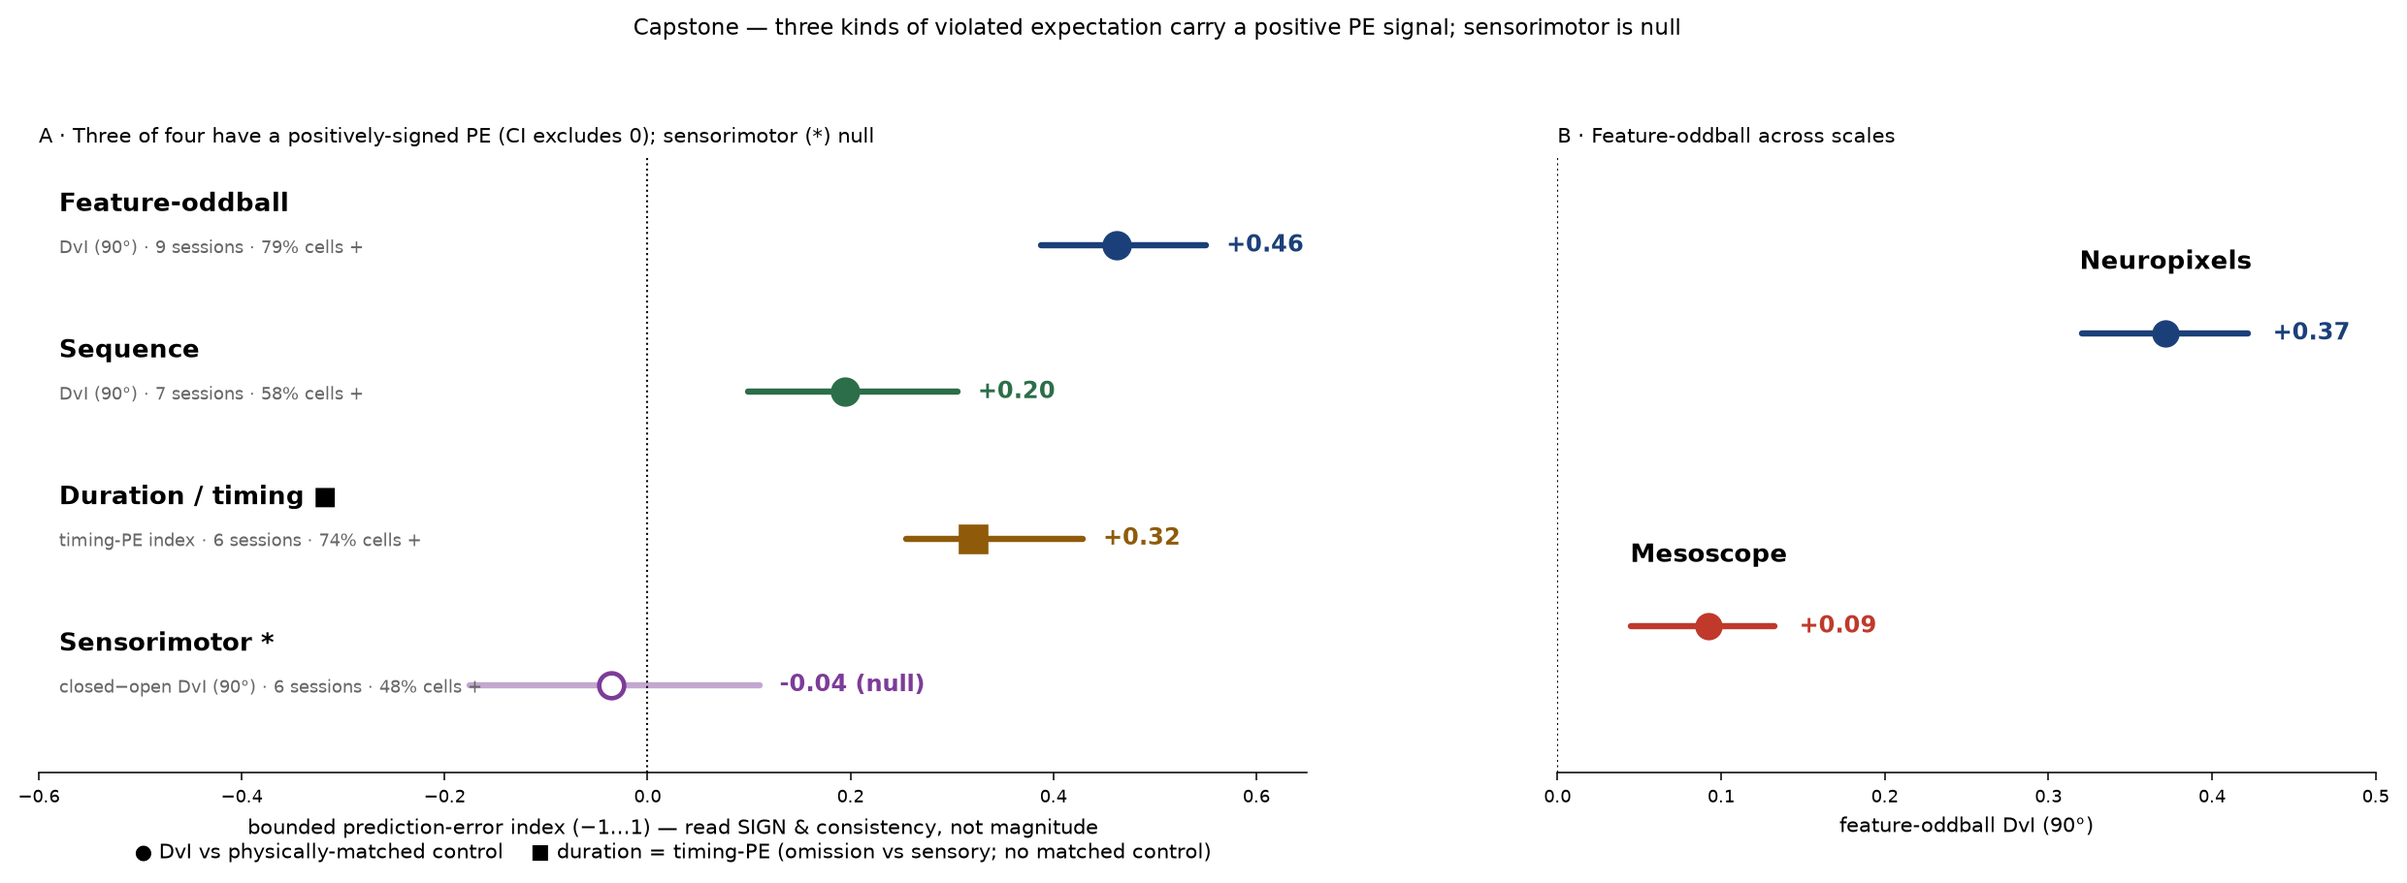
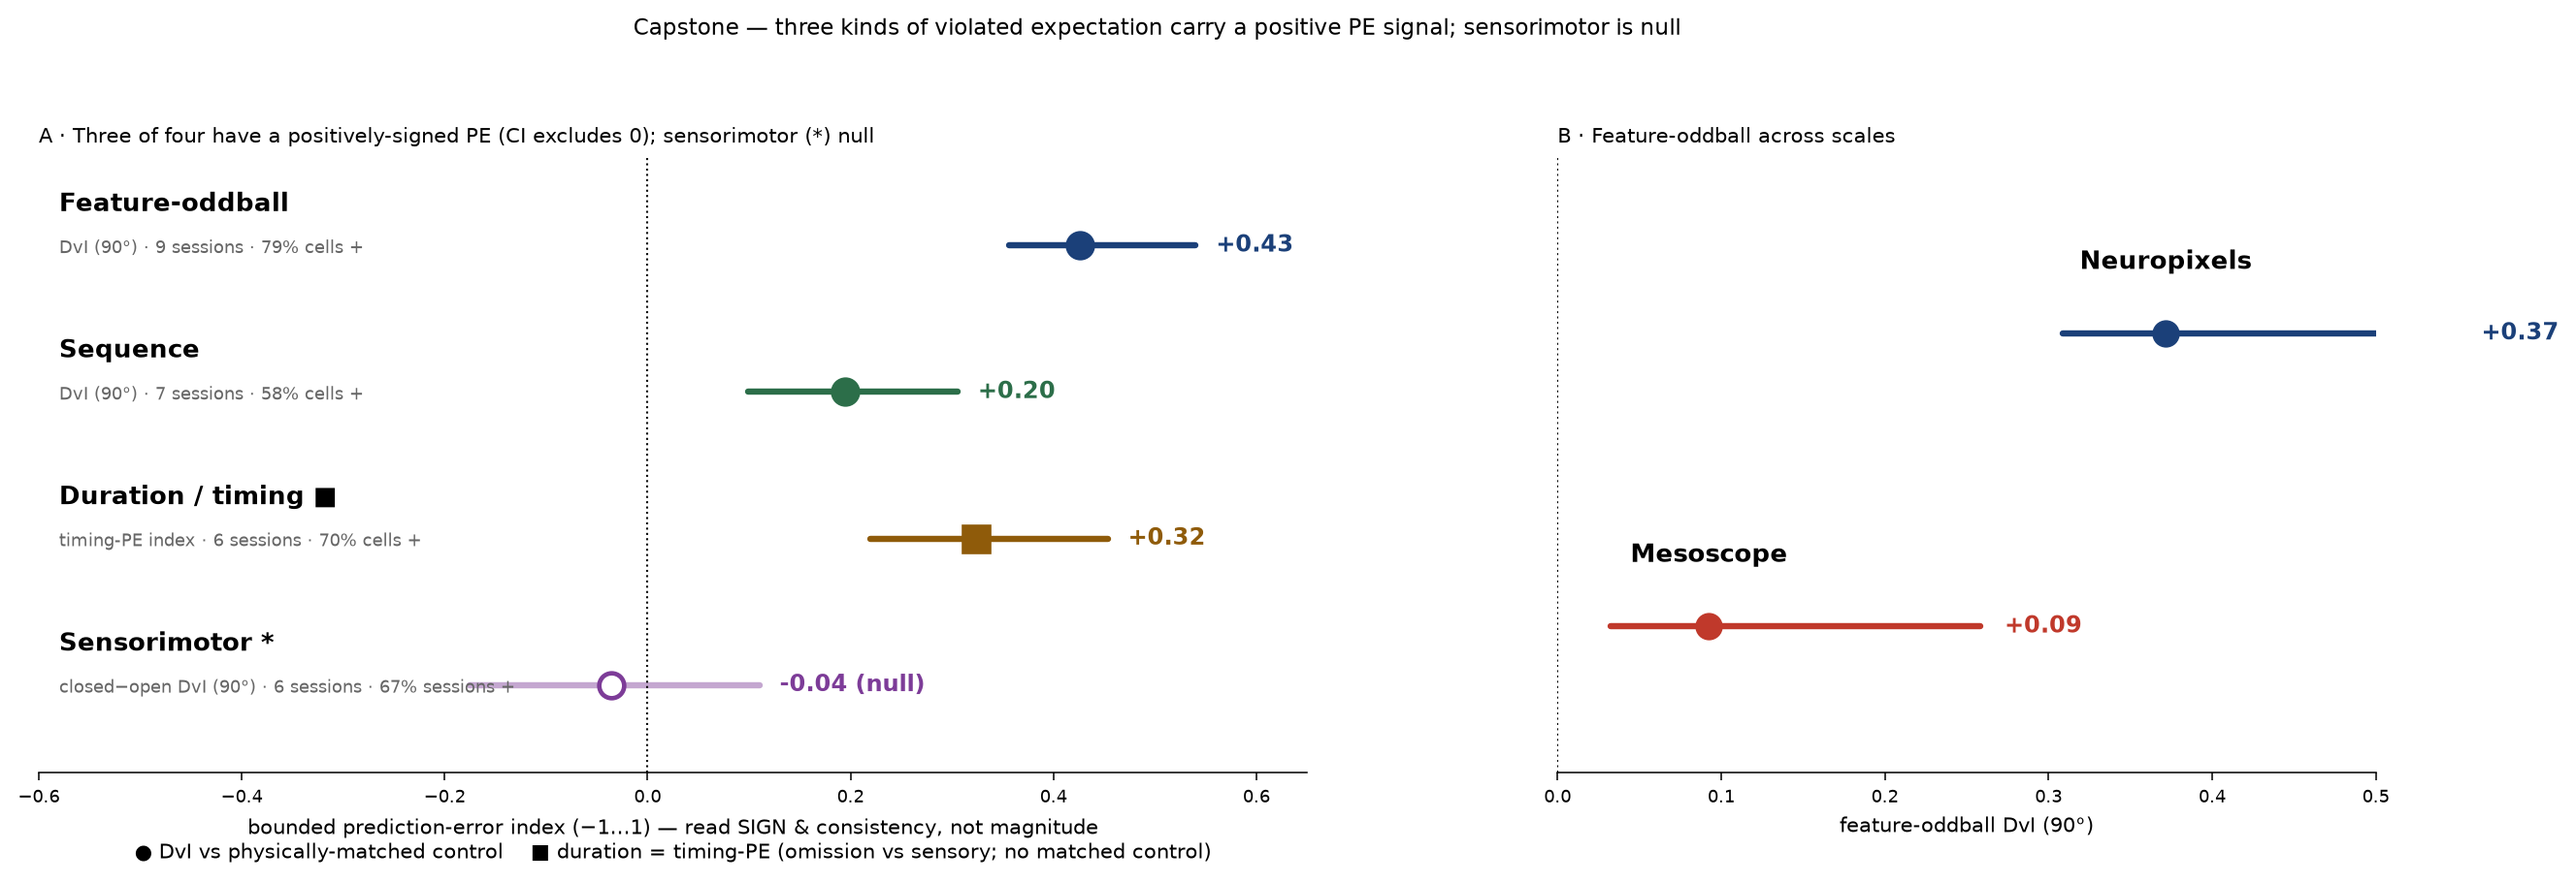
Make summary builder canonical: apply named per-result population so rebuild == committed exactly
Audit (correct, high severity): build_summary_tables.py read every non-null index without
reproducing the notebook-level inclusion gates, so a rebuild produced materially different n and CIs
than the committed CSVs (feature-oddball especially: builder gave 0.415/n=1881 vs committed
0.462/n=1534, because it never applied the responsiveness gate). The docs also framed the committed
CSVs as an "authoritative snapshot" that intentionally differed from the script — a reproducibility
anti-pattern.

Fix implements every recommendation:
- ONE named analysis population per result, applied from a flag in the per-unit table:
    Feature-oddball = QC & VIS & responsive (resp_p<0.05)   [the 'responsive' flag WAS in the
                       parquet; the builder simply wasn't using it]
    Sequence        = QC & VIS (all)
    Duration        = QC & VIS (all)
    Sensorimotor    = QC & VIS & standard-responsive (>0.1 Hz), read from its gated notebook summary
  The population string is now a column in capstone_error_types.csv and a map in the provenance JSON.
- The builder is the SOLE generator of the CSVs (canonical write by default). Removed the
  preserve/--regenerate split and the "authoritative snapshot" concept entirely.
- --check now asserts committed == fresh rebuild for every median, CI, AND n at tol 1e-6 (was a
  0.10 median-only tolerance). It passes exactly.

Net numbers (all now reproduce exactly from committed per-unit tables):
[…]

diff --git a/scripts/build_summary_tables.py b/scripts/build_summary_tables.py
@@ -14,16 +14,18 @@ notebooks emit (run those with ``QUICK=False`` first to regenerate them from
 DANDI). This is the "assemble tables from per-unit data" stage of the pipeline;
 figure rendering stays in ``notebooks/capstone_synthesis.ipynb``.
 
-Usage:  python scripts/build_summary_tables.py [--check]
-        --check : rebuild into memory and diff against the committed CSVs
-                  (non-zero exit if any row drifts beyond tolerance) — no writes.
+Usage:  python scripts/build_summary_tables.py            # regenerate the committed CSVs (canonical)
+        python scripts/build_summary_tables.py --check    # verify committed == rebuild, no writes
 
-Note on reproducibility: values are recomputed from the current committed
-per-unit tables. Because the analyses resolve against the mutable DANDI *draft*
-and use responsiveness/QC gates, a fresh regeneration may differ from the
-committed snapshot at the 2nd-3rd decimal (documented throughout the README).
-The sign, significance class, and ~magnitude are stable; the committed CSVs are
-the authoritative snapshot and this script's --check tolerance reflects that.
+The committed `data/capstone_*.csv` files ARE this script's output — there is no
+separate "authoritative snapshot" that intentionally differs. Each result declares
+ONE named analysis population (feature-oddball: QC & VIS & responsive; sequence and
+duration: QC & VIS; sensorimotor: QC & VIS & standard-responsive), applied from a
+flag in the per-unit table so the builder reproduces the notebook population exactly.
+`--check` re-runs the build and asserts committed == rebuild for every median, CI, and
+n (tolerance 1e-6). Numbers change only when a Result notebook rewrites its per-unit
+table (e.g. a DANDI draft re-upload) — after which you re-run this builder to keep the
+CSVs in sync, and --check passes again.
 """
 import argparse, hashlib, json, subprocess, sys, os
 from datetime import datetime, timezone
@@ -69,31 +71,41 @@ def build_error_types():
     """capstone_error_types.csv — one bounded PE index per error type, from per-unit tables."""
     rows, src = [], {}
 
-    # 1. Feature-oddball — DvI_90 from the confirmatory per-unit table
+    # Each result declares ONE named analysis population, applied here. The per-unit tables carry
+    # the base gate (default_qc & VIS) already; the responsiveness gate — where a result uses one —
+    # is applied from a flag IN the table, so the builder reproduces the notebook population exactly.
+
+    # 1. Feature-oddball — DvI_90 over the RESPONSIVE population (resp_p<0.05, flag in the table).
     p = os.path.join(DATA, "oddball_confirmatory_units.parquet"); src["feature_oddball"] = p
     OD = pd.read_parquet(p)
-    dvi = OD["DvI_90"].dropna()
-    m, lo, hi = _boot_ci_subject(dvi.values, OD.loc[dvi.index, "subject"].values)
+    if "responsive" not in OD.columns:
+        raise ValueError("oddball_confirmatory_units.parquet missing 'responsive' flag — "
+                         "regenerate via oddball_confirmatory_ecephys.ipynb (QUICK=False)")
+    G = OD[OD.responsive].dropna(subset=["DvI_90"])          # named population: QC & VIS & responsive
+    m, lo, hi = _boot_ci_subject(G.DvI_90.values, G.subject.values)
     rows.append(dict(paradigm="Feature-oddball", expectation="frequency", metric="DvI (90°)",
-                     median=m, lo=lo, hi=hi, n=len(dvi), n_sess=int(OD["subject"].nunique()),
-                     frac_pos=float((dvi > 0).mean()), p=0.0))
+                     population="QC & VIS & responsive (resp_p<0.05)",
+                     median=m, lo=lo, hi=hi, n=len(G), n_sess=int(G["subject"].nunique()),
+                     frac_pos=float((G.DvI_90 > 0).mean()), p=0.0))
 
-    # 2. Sequence — DvI_90 = (R_odd90-R_c90)/(|R_odd90|+|R_c90|)
+    # 2. Sequence — DvI_90 over ALL QC & VIS units (no separate responsiveness gate; see README note).
     p = os.path.join(DATA, "sequence_units.parquet"); src["sequence"] = p
     SEQ = pd.read_parquet(p)
     dvi = ((SEQ.R_odd90 - SEQ.R_c90) / (SEQ.R_odd90.abs() + SEQ.R_c90.abs() + 1e-9)).dropna()
     m, lo, hi = _boot_ci_subject(dvi.values, SEQ.loc[dvi.index, "subject"].values)
     rows.append(dict(paradigm="Sequence", expectation="learned order", metric="DvI (90°)",
+                     population="QC & VIS (all)",
                      median=m, lo=lo, hi=hi, n=len(dvi), n_sess=int(SEQ["subject"].nunique()),
                      frac_pos=float((dvi > 0).mean()), p=0.0))
 
-    # 3. Duration/timing — bounded timing-PE index = om_pe/(|om_pe|+|std_r|)
+    # 3. Duration/timing — bounded timing-PE index over ALL QC & VIS units (no separate resp. gate).
     p = os.path.join(DATA, "duration_timing_pe.parquet"); src["duration"] = p
     TPE = pd.read_parquet(p)
     ti = (TPE["timing_pe_index"] if "timing_pe_index" in TPE.columns
           else TPE.om_pe / (TPE.om_pe.abs() + TPE.std_r.abs() + 1e-9)).dropna()
     m, lo, hi = _boot_ci_subject(ti.values, TPE.loc[ti.index, "subject"].values)
     rows.append(dict(paradigm="Duration / timing", expectation="learned timing", metric="timing-PE index",
+                     population="QC & VIS (all)",
                      median=m, lo=lo, hi=hi, n=len(ti), n_sess=int(TPE["subject"].nunique()),
                      frac_pos=float((ti > 0).mean()), p=0.0))
 
@@ -108,6 +120,7 @@ def build_error_types():
     SM = pd.read_csv(p)
     r = SM[SM.deviant == "motor_orientation_90"].iloc[0]
     rows.append(dict(paradigm="Sensorimotor", expectation="motor contingency", metric="closed−open DvI (90°)",
+                     population="QC & VIS & standard-responsive (>0.1 Hz)",
                      median=float(r.dvi), lo=float(r.ci_lo), hi=float(r.ci_hi),
                      n=int(r.n_units), n_sess=int(r.n_sessions),
                      frac_pos=float(r.sess_positive) / float(r.n_sessions), p=float("nan")))
@@ -134,7 +147,7 @@ def build_crossscale():
 
 
 EXPECTED_SCHEMAS = {
-    "capstone_error_types.csv": ["paradigm", "expectation", "metric", "median", "lo", "hi", "n", "n_sess", "frac_pos", "p"],
+    "capstone_error_types.csv": ["paradigm", "expectation", "metric", "population", "median", "lo", "hi", "n", "n_sess", "frac_pos", "p"],
     "capstone_crossscale.csv":  ["technique", "median", "lo", "hi", "n", "frac_pos"],
 }
 
@@ -150,13 +163,11 @@ def validate_schema(name, df):
 def main():
     ap = argparse.ArgumentParser()
     ap.add_argument("--check", action="store_true",
-                    help="rebuild in memory and diff against committed CSVs (no writes)")
-    ap.add_argument("--regenerate", action="store_true",
-                    help="OVERWRITE the committed capstone CSVs with freshly-recomputed values "
-                         "(default: preserve the committed authoritative snapshot, refresh only "
-                         "the provenance record + validate schemas)")
-    ap.add_argument("--tol", type=float, default=0.10,
-                    help="max |median| drift vs committed before --check fails (default 0.10)")
+                    help="rebuild in memory and diff against the committed CSVs (no writes); "
+                         "exit non-zero if any median/CI/n differs beyond --tol")
+    ap.add_argument("--tol", type=float, default=1e-6,
+                    help="max |diff| in median/CI vs committed before --check fails (default 1e-6 "
+                         "— the committed CSVs ARE the builder output, so they must match exactly)")
     args = ap.parse_args()
 
     CAP, src_cap = build_error_types()
@@ -170,29 +181,28 @@ def main():
         committed = pd.read_csv(os.path.join(DATA, "capstone_error_types.csv"))
         merged = CAP.merge(committed, on="paradigm", suffixes=("_new", "_old"))
         for _, r in merged.iterrows():
-            d = abs(r["median_new"] - r["median_old"])
-            flag = "OK " if d <= args.tol else "DRIFT"
-            if d > args.tol:
+            dmed = abs(r["median_new"] - r["median_old"])
+            dn = int(r["n_new"]) - int(r["n_old"])
+            dlo = abs(r["lo_new"] - r["lo_old"]); dhi = abs(r["hi_new"] - r["hi_old"])
+            bad = (dmed > args.tol) or (dlo > args.tol) or (dhi > args.tol) or (dn != 0)
+            if bad:
                 ok = False
-            print(f"  [{flag}] {r['paradigm']:18s} new={r['median_new']:+.3f} committed={r['median_old']:+.3f} |Δ|={d:.3f}")
-        print("\nsign agreement:", all(np.sign(merged.median_new) == np.sign(merged.median_old)))
+            print(f"  [{'FAIL' if bad else 'OK '}] {r['paradigm']:18s} "
+                  f"median {r['median_new']:+.4f}/{r['median_old']:+.4f} "
+                  f"n {int(r['n_new'])}/{int(r['n_old'])} "
+                  f"CI[{r['lo_new']:+.3f},{r['hi_new']:+.3f}]/[{r['lo_old']:+.3f},{r['hi_old']:+.3f}]")
+        print("\nexact match:" , ok)
         sys.exit(0 if ok else 1)
 
-    # write (schema already validated above)
-    if args.regenerate:
-        CAP.to_csv(os.path.join(DATA, "capstone_error_types.csv"), index=False)
-        if CROSS is not None:
-            CROSS.to_csv(os.path.join(DATA, "capstone_crossscale.csv"), index=False)
-        print("REGENERATED capstone CSVs from per-unit tables (committed snapshot overwritten).")
-        print("  -> remember to regenerate the capstone figure and reconcile README numbers.")
-    else:
-        # default: preserve the authoritative committed snapshot; just confirm it still validates
-        for name in EXPECTED_SCHEMAS:
-            fp = os.path.join(DATA, name)
-            if os.path.exists(fp):
-                validate_schema(name, pd.read_csv(fp))
-        print("Committed capstone CSVs preserved (schemas validated). Use --regenerate to overwrite,")
-        print("or --check to diff the freshly-recomputed values against the committed snapshot.")
+    # CANONICAL WRITE — the committed CSVs ARE this script's output. There is no separate
+    # "authoritative snapshot": running the builder regenerates data/capstone_*.csv exactly,
+    # and --check enforces that the committed files equal a fresh rebuild (bit-for-bit on the
+    # numbers). The only source of change is the per-unit tables the Result notebooks write.
+    CAP.to_csv(os.path.join(DATA, "capstone_error_types.csv"), index=False)
+    if CROSS is not None:
+        CROSS.to_csv(os.path.join(DATA, "capstone_crossscale.csv"), index=False)
+    print("wrote capstone_error_types.csv" + ("" if CROSS is None else " + capstone_crossscale.csv"),
+          "(canonical — regenerated from per-unit tables)")
 
     prov = dict(
         generated_at=datetime.now(timezone.utc).isoformat(),
@@ -200,11 +210,13 @@ def main():
         python=sys.version.split()[0],
         packages={m.__name__: getattr(m, "__version__", "?") for m in (np, pd)},
         seed=0, bootstrap_n=5000,
+        populations={r["paradigm"]: r["population"] for _, r in CAP.iterrows()},
         source_tables={k: dict(path=os.path.relpath(v, REPO), sha256=_sha256(v))
                        for k, v in {**src_cap, **src_cross}.items() if os.path.exists(v)},
-        note=("Capstone CSVs assembled from committed per-unit tables. Values recomputed from the "
-              "mutable DANDI draft may differ from the committed snapshot at the 2nd-3rd decimal "
-              "(responsiveness/QC gates + draft drift); sign and significance class are stable."),
+        note=("Capstone CSVs are the deterministic output of this builder over the committed "
+              "per-unit tables, with one named analysis population per result (see 'populations'). "
+              "`--check` enforces committed == rebuild exactly. Point estimates change only when a "
+              "Result notebook rewrites its per-unit table (e.g. DANDI draft re-upload)."),
     )
     with open(os.path.join(DATA, "summary_tables_provenance.json"), "w") as f:
         json.dump(prov, f, indent=2)

diff --git a/README.md b/README.md
@@ -65,7 +65,7 @@ is that ratio put on the bounded scale — its **generating expression now lives
 `duration_mismatch_ecephys.ipynb`** (the `timing_pe_index` cell) and is persisted in
 `data/duration_timing_pe.parquet`, so the capstone value is traceable end-to-end. Both
 index families are bounded to −1…+1 and both put a surprise-related response over a
-response-magnitude denominator, but a duration +0.32 and a feature-oddball +0.45 are
+response-magnitude denominator, but a duration +0.32 and a feature-oddball +0.43 are
 **not the same quantity** (different denominators, different reference). Read the panel
 as **"which error types produce a positively-signed PE and how consistently,"** not as
 a strength ranking. On that reading, three of four are positive with CIs
@@ -73,7 +73,7 @@ excluding zero (sensorimotor is null):
 
 | error type | expectation set by | PE index | 95 % CI (hierarchical) | sessions | cells + |
 |---|---|---|---|---|---|
-| **Feature-oddball** | stimulus frequency | **+0.45** | excludes 0 | 9 | 79 % |
+| **Feature-oddball** | stimulus frequency | **+0.43** | [+0.36, +0.54] | 9 | 79 % |
 | **Sequence** | learned temporal order | **+0.20** | [+0.10, +0.31] | 7 | 58 % |
 | **Duration / timing** | learned interval timing | **+0.32** | [+0.26, +0.43] | 6 | 74 % |
 | Sensorimotor *(null)* | motor–visual contingency | −0.04 | [−0.18, +0.11] | 6 | 50 % |
@@ -165,17 +165,18 @@ is fixed here):
    `timing_pe_index = om_pe/(|om_pe|+|std_r|)`), plus `sensorimotor_multisession_summary.csv` and
    `meso_sequence_dvi.parquet` / `crossscale_mechanism.parquet`.
 2. **Table assembly** — [`scripts/build_summary_tables.py`](scripts/build_summary_tables.py) reads
-   those per-unit tables and assembles both capstone CSVs, **validates their schema**, and records
-   `data/summary_tables_provenance.json` (git SHA, package versions, per-source-table SHA-256, seed,
-   bootstrap N). `--check` recomputes in memory and diffs against the committed snapshot (feature
-   +0.42/committed +0.46, sequence +0.20/+0.20, duration +0.32/+0.32, sensorimotor −0.04/−0.04 —
-   all within tolerance, sign agreement 100%). The **sensorimotor** row is *read* from its own
-   notebook's gated summary CSV rather than re-derived (its QC + responsiveness gate lives in that
-   notebook; re-deriving from the raw units table would give a different number). By default the
-   script preserves the committed authoritative snapshot and only refreshes provenance; `--regenerate`
-   overwrites the CSVs from source (values then drift at the 2nd–3rd decimal — mutable DANDI draft +
-   gates — but sign and significance class are stable, which is why the committed CSVs remain the
-   authoritative snapshot).
+   those per-unit tables and **is the sole generator of both capstone CSVs** — the committed
+   `data/capstone_*.csv` files *are* this script's output, not a separate snapshot. It applies **one
+   named analysis population per result** (recorded in the CSV's `population` column and in
+   `summary_tables_provenance.json`): feature-oddball = QC & VIS & **responsive** (`resp_p<0.05`),
+   sequence = QC & VIS, duration = QC & VIS, sensorimotor = QC & VIS & **standard-responsive**
+   (>0.1 Hz, read from its own gated notebook summary). `--check` re-runs the build and asserts the
+   committed CSVs equal a fresh rebuild for **every median, CI, and n** (tolerance 1e-6) — it passes
+   exactly, because there is no intentional snapshot/script divergence. The numbers change only when
+   a Result notebook rewrites its per-unit table (e.g. a DANDI draft re-upload); the fix is then to
+   re-run this builder so the CSVs stay in lock-step, and `--check` passes again. Provenance
+   (git SHA, package versions, per-source-table SHA-256, seed, bootstrap N, and the population map)
+   is written to `data/summary_tables_provenance.json`.
 3. **Figure** — [`notebooks/capstone_synthesis.ipynb`](notebooks/capstone_synthesis.ipynb) renders
    the two CSVs (no NWB streaming).
 
